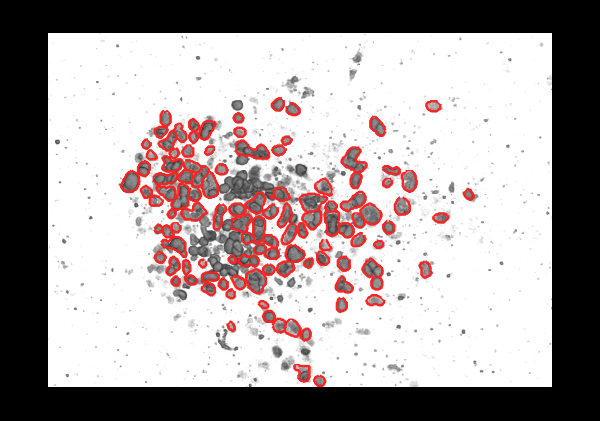
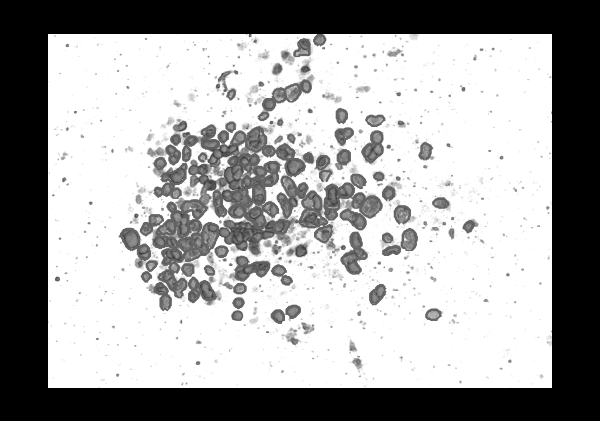
small fixes

diff --git a/point_plotter.py b/point_plotter.py
@@ -24,7 +24,7 @@ class PointPlotter(Plotter):
         self.point_color = "red8"
         self.filename = filename
         self.nameout = nameout
-        self.pic = Picture(filename).bw()
+        self.pic = Picture(filename).bw().invert().flip().write("a.png")
 
         self.cpoints = []
         self.points = None
@@ -46,7 +46,7 @@ class PointPlotter(Plotter):
         if not evt.actor:
             return
         if evt.actor.name == "points":
-            # remove clicked point
+            # remove clicked point if clicked twice
             pid = self.points.closest_point(evt.picked3d, return_point_id=True)
             self.cpoints.pop(pid)
             self.update()
@@ -67,7 +67,7 @@ class PointPlotter(Plotter):
     def on_key_press(self, evt):
         if "q" in evt.keypress.lower():
             out = np.round(self.cpoints).astype(int)
-            np.savetxt(".tmp.csv", out, delimiter=",") # because one can forget to save
+            np.savetxt(".tmp.csv", out, delimiter=",") # one can forget to save
             self.close()
             return
         elif evt.keypress == "c":
@@ -87,7 +87,7 @@ class PointPlotter(Plotter):
             self.points = Points(np.array(self.cpoints)[:, (0, 1)])
             self.points.ps(self.point_size).c(self.point_color)
             self.points.name = "points"
-            self.points.pickable(1)
+            self.points.pickable(True)
             self.add(self.points)
 
     def get_coordinates(self):
@@ -98,11 +98,10 @@ class PointPlotter(Plotter):
     def get_intensities(self):
         return np.round(self.cpoints).astype(int)[:, 2]
 
-    def compute_density(self, radius=None):
+    def compute_density(self, radius):
         cc = self.get_coordinates()
         pts = Points(cc)
-        vol = pts.density(radius=radius).c("Paired_r")  # returns a Volume
-        r = precision(vol.info["radius"], 2)  # retrieve radius value
-        vol.add_scalarbar3d(title="Density (counts in r_search =" + r + ")", c="k")
-        mpts = probe_points(vol, pts).point_size(3)  #.print()
-        return pts, vol, mpts.pointdata["ImageScalars"]
+        vol = pts.density(radius).c("Paired_r")  # returns a Volume
+        vol.add_scalarbar3d(title=f"Density (counts in r_search ={radius})", c="k")
+        mpts = probe_points(vol, pts).ps(5).c("black")
+        return mpts, vol, mpts.pointdata["ImageScalars"]

diff --git a/analyse_density.py b/analyse_density.py
@@ -1,7 +1,5 @@
 #!/usr/bin/env python3
 # -*- coding: utf-8 -*-
-# USAGE:
-# python analyse_density.py test_image.png
 import sys
 from vedo import settings
 from vedo.pyplot import plot
@@ -10,7 +8,7 @@ from point_plotter import Plotter, PointPlotter
 # Data ###################################
 namein  = sys.argv[1]
 nameout = namein.split('.')[-2]+"_data.csv"
-radius = 50 # pixels
+radius = 50  # pixels
 
 plt1 = PointPlotter(namein, nameout, init=nameout)
 plt1.point_color = 'red5'
@@ -24,11 +22,11 @@ intensities = plt1.get_intensities()
 fig = plot(
     dens_array, intensities,
     lw=0,         # do not join points with lines
-    xtitle=f"Density in radius {radius} (pixels)",
+    xtitle=f"Density in {radius} pixels radius",
     ytitle="Sox9 intensity",
     marker="*",   # marker style
     mc="red4",    # marker color
-    aspect=1/1,
+    aspect=1/1,   # aspect ratio
 )
 plt2.at(0).show(pts, dens, plt1.pic.alpha(0.2), zoom='tight')
 plt2.at(1).show(fig, zoom='tight')

diff --git a/README.md b/README.md
@@ -1,13 +1,18 @@
 
-## Compute cell density vs gene expression data.
+## Compute cell density vs gene expression data
 
 ### Usage
+
+Install:
 ```
 pip install vedo
+```
 
+Run:
+```
 python analyse_density.py test_image.png
 ```
 
-![](https://user-images.githubusercontent.com/32848391/221221690-79e35b70-634f-4105-adf2-24e43039fafd.png)
+![](https://user-images.githubusercontent.com/32848391/221247534-65fc17a6-aa79-4246-b9fe-f09f0b10c7d9.png)
 
-![](https://user-images.githubusercontent.com/32848391/221221059-e2f84ad6-4a9d-42e7-8e18-44fe0b25321e.png)
+![](https://user-images.githubusercontent.com/32848391/221247578-ebf35ec9-71a2-4b93-9f39-dd91019f0636.png)
